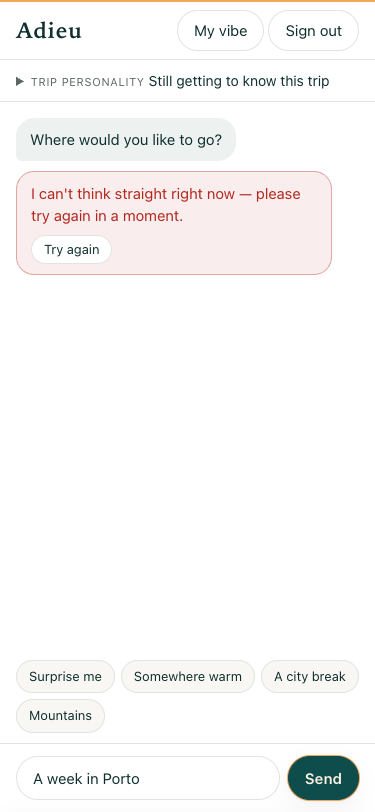
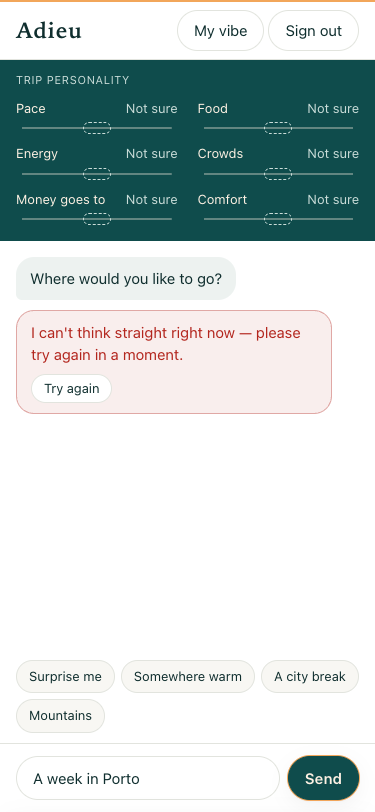
[Ticket #68] Trip personality as a fingerprint band
Six scales from personality.scales in a teal band: a solid apricot knob when the
scale is known (confidence >= 0.5, as personality_service.KNOWN), a dashed one
while it isn't. Trip notes open under it. New tokens --band*.

diff --git a/travel-ai-web/src/screens/Trip.tsx b/travel-ai-web/src/screens/Trip.tsx
@@ -34,21 +34,52 @@ function profileFacts(p: TripProfile): string[] {
   return [...new Set(facts.filter((f): f is string => !!f))];
 }
 
-/** The trip's personality in plain words: "Slow pace, food is the point". Unknown scales are named, never guessed. */
+// Mirrors personality_service.SCALES / KNOWN / LEAN: [label, left pole, right pole, middle].
+const SCALES: [string, string, string, string, string][] = [
+  ["pace", "Pace", "Slow", "Packed", "Steady"],
+  ["food", "Food", "Just fuel", "The point", "Matters"],
+  ["energy", "Energy", "Chill", "Nightlife", "Some nights"],
+  ["crowds", "Crowds", "Hidden gems", "Icons", "A mix"],
+  ["money", "Money goes to", "The stay", "Experiences", "Both"],
+  ["comfort", "Comfort", "Backpacker", "Luxury", "Mid-range"],
+];
+const KNOWN = 0.5;
+const LEAN = 0.25;
+
+/** The trip's personality as six small scales: a solid knob when Adieu is sure, a dashed one while it isn't.
+ * The traveler's notes about the whole trip open underneath. */
 function PersonalityCard({ personality }: { personality: Personality }) {
-  const { traits, unknown, notes } = personality;
+  const { scales, notes } = personality;
   const tripNotes = notes.filter((n) => n.target === "trip");
   const isMoment = (n: (typeof notes)[number]) => n.once && n.kind !== "avoid";
   const moments = tripNotes.filter(isMoment).map((n) => n.text);
-  const sentence = traits.map((t, i) => (i ? t.toLowerCase() : t)).join(", ");
   return (
     <details className="personality">
       <summary>
-        <span className="personality-label">Trip personality</span> {sentence || "Still getting to know this trip"}
+        <span className="personality-head">
+          <span className="personality-label">Trip personality</span>
+          {tripNotes.length > 0 && <span className="small">Notes ({tripNotes.length})</span>}
+        </span>
+        <span className="fingerprint">
+          {SCALES.map(([key, label, left, right, middle]) => {
+            const s = scales[key];
+            const known = !!s && s.confidence >= KNOWN;
+            const value = s?.value ?? 0;
+            const word = !known ? "Not sure" : value < -LEAN ? left : value > LEAN ? right : middle;
+            return (
+              <span key={key} className={`scale ${known ? "known" : ""}`}>
+                <span className="scale-text">
+                  <span>{label}</span>
+                  <span className="scale-word">{word}</span>
+                </span>
+                <span className="scale-track" aria-hidden>
+                  <span className="scale-knob" style={{ left: `${((value + 1) / 2) * 100}%` }} />
+                </span>
+              </span>
+            );
+          })}
+        </span>
       </summary>
-      {traits.length > 0 && unknown.length > 0 && (
-        <span className="small muted">Not sure yet: {unknown.join(", ").toLowerCase()}</span>
-      )}
       <NoteList notes={tripNotes.filter((n) => !isMoment(n))} target="trip" />
       {moments.length > 0 && <span className="small">To fit in: {moments.join(", ")}</span>}
     </details>

diff --git a/travel-ai-web/src/styles.css b/travel-ai-web/src/styles.css
@@ -14,6 +14,10 @@
   --error: #b3261e;
   --radius: 14px;
   --shadow: 0 1px 2px rgb(17 17 17 / 0.05), 0 6px 20px rgb(17 17 17 / 0.05);
+  --band: #0f4c4c;
+  --band-ink: #fdf1e3;
+  --band-muted: #c9dcd8;
+  --band-line: rgb(253 241 227 / 0.35);
   --on-photo: #ffffff;
   --scrim: rgb(0 0 0 / 0.55);
   --backdrop: rgb(0 0 0 / 0.25);
@@ -39,6 +43,7 @@
     --bubble: #162a28;
     --error: #ff8a80;
     --backdrop: rgb(0 0 0 / 0.5);
+    --band: #12403f;
     color-scheme: dark;
   }
 }
@@ -170,11 +175,21 @@ input:focus-visible, button:focus-visible, a:focus-visible, summary:focus-visibl
 
 .facts { display: flex; flex-wrap: wrap; gap: 6px; padding: 10px 16px; border-bottom: 1px solid var(--line); }
 .fact { font-size: 12px; padding: 2px 10px; border-radius: 999px; background: var(--accent-soft); color: var(--ink); border: 1px solid color-mix(in srgb, var(--accent) 35%, transparent); }
-.personality { padding: 10px 16px; border-bottom: 1px solid var(--line); font-size: 14px; }
-.personality[open] { display: flex; flex-direction: column; gap: 2px; }
-.personality summary { cursor: pointer; }
-.personality summary::marker { color: var(--muted); }
-.personality-label { font-size: 11px; text-transform: uppercase; letter-spacing: 0.06em; color: var(--muted); }
+.personality { padding: 12px 16px; background: var(--band); color: var(--band-ink); font-size: 14px; display: flex; flex-direction: column; gap: 4px; }
+.personality summary { cursor: pointer; list-style: none; display: flex; flex-direction: column; gap: 10px; }
+.personality summary::-webkit-details-marker { display: none; }
+.personality-head { display: flex; justify-content: space-between; align-items: baseline; }
+.personality-head .small { padding: 2px 10px; border-radius: 999px; border: 1px solid var(--band-line); }
+.personality .muted { color: var(--band-muted); }
+.fingerprint { display: grid; grid-template-columns: repeat(2, minmax(0, 1fr)); gap: 10px 20px; }
+.scale { display: flex; flex-direction: column; gap: 4px; }
+.scale-text { display: flex; justify-content: space-between; gap: 8px; font-size: 13px; }
+.scale-word { color: var(--band-muted); }
+.scale.known .scale-word { color: var(--band-ink); font-weight: 600; }
+.scale-track { position: relative; height: 12px; margin-inline: 6px; background: linear-gradient(var(--band-line), var(--band-line)) center / 100% 2px no-repeat; }
+.scale-knob { position: absolute; top: 0; width: 28px; height: 12px; margin-left: -14px; border-radius: 6px; border: 1.5px dashed var(--band-muted); }
+.scale.known .scale-knob { width: 12px; margin-left: -6px; border: 0; background: var(--accent); }
+.personality-label { font-size: 11px; text-transform: uppercase; letter-spacing: 0.06em; color: var(--band-muted); }
 .log { flex: 1; overflow-y: auto; padding: 16px; display: flex; flex-direction: column; gap: 10px; }
 .msg { max-width: 85%; padding: 10px 14px; border-radius: 18px; white-space: pre-wrap; }
 .msg.user { align-self: flex-end; background: var(--primary); color: var(--primary-ink); border-bottom-right-radius: 6px; }
